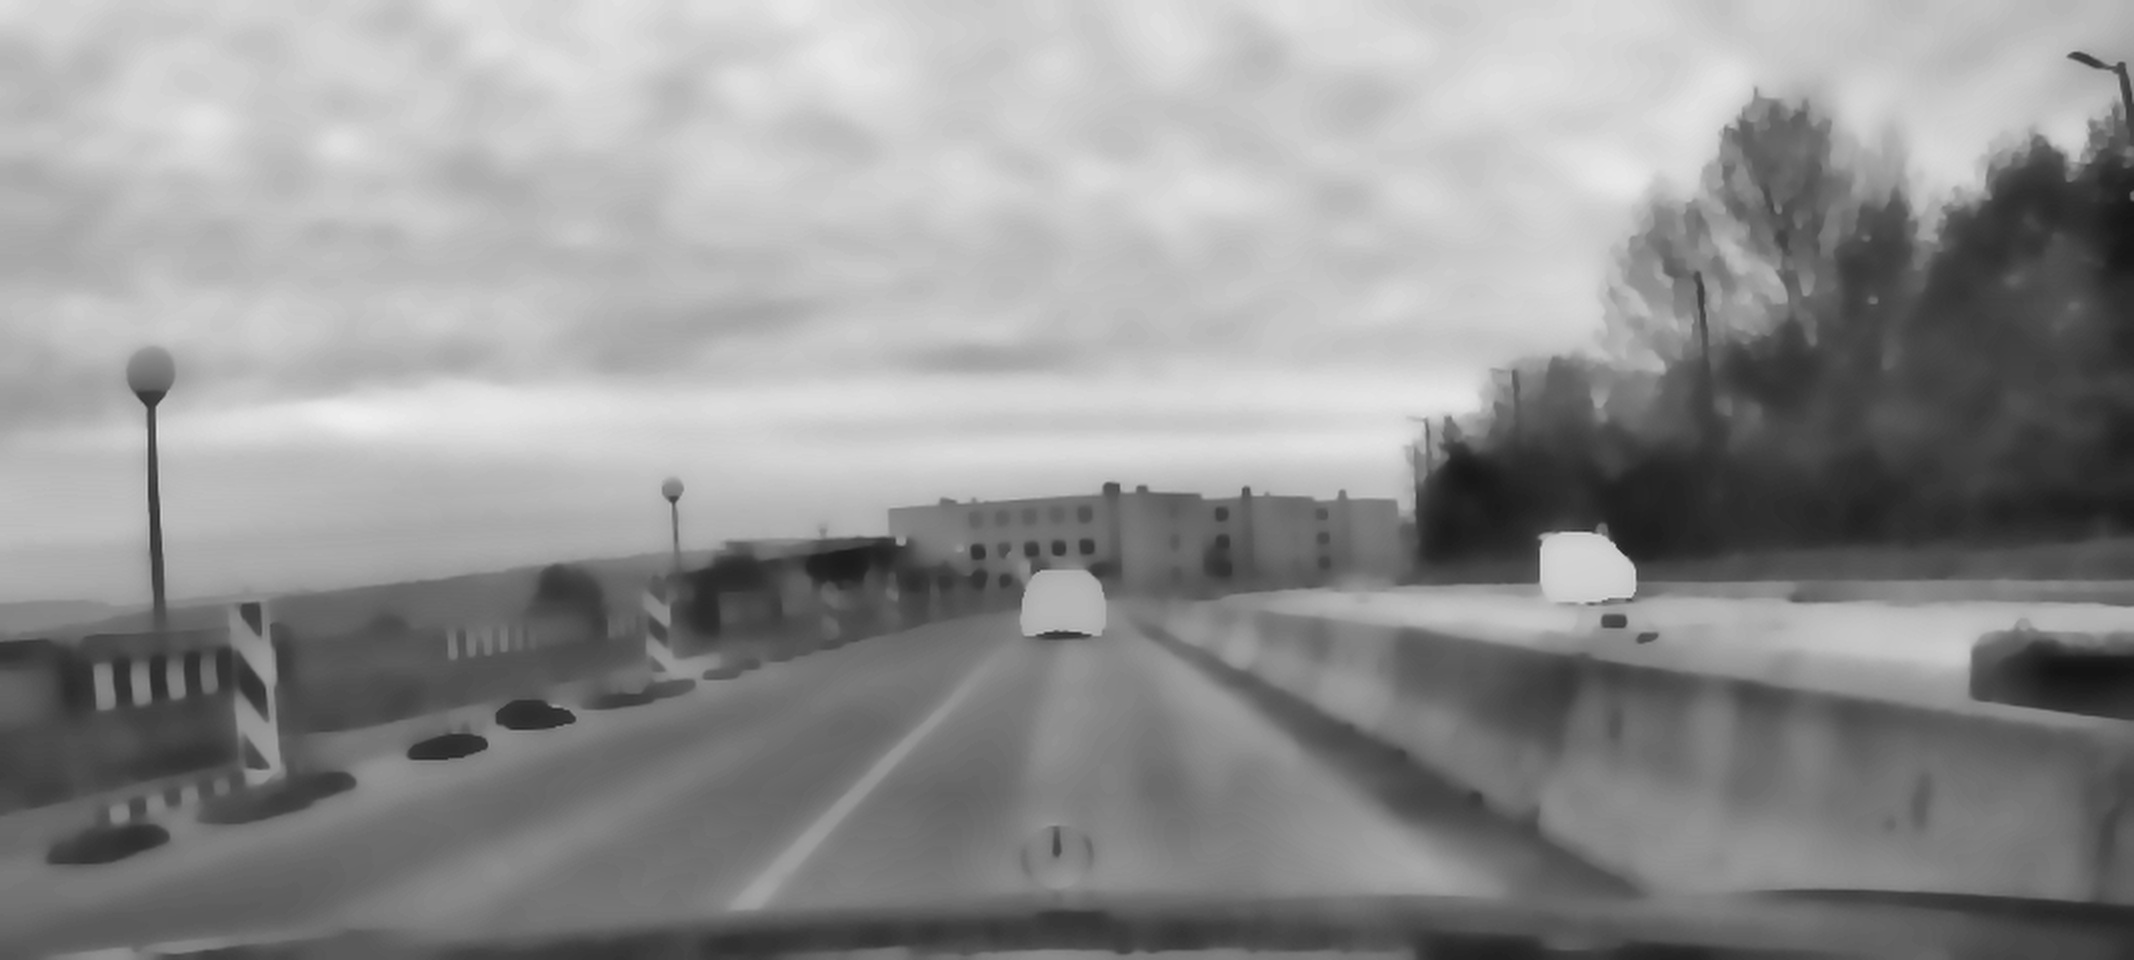
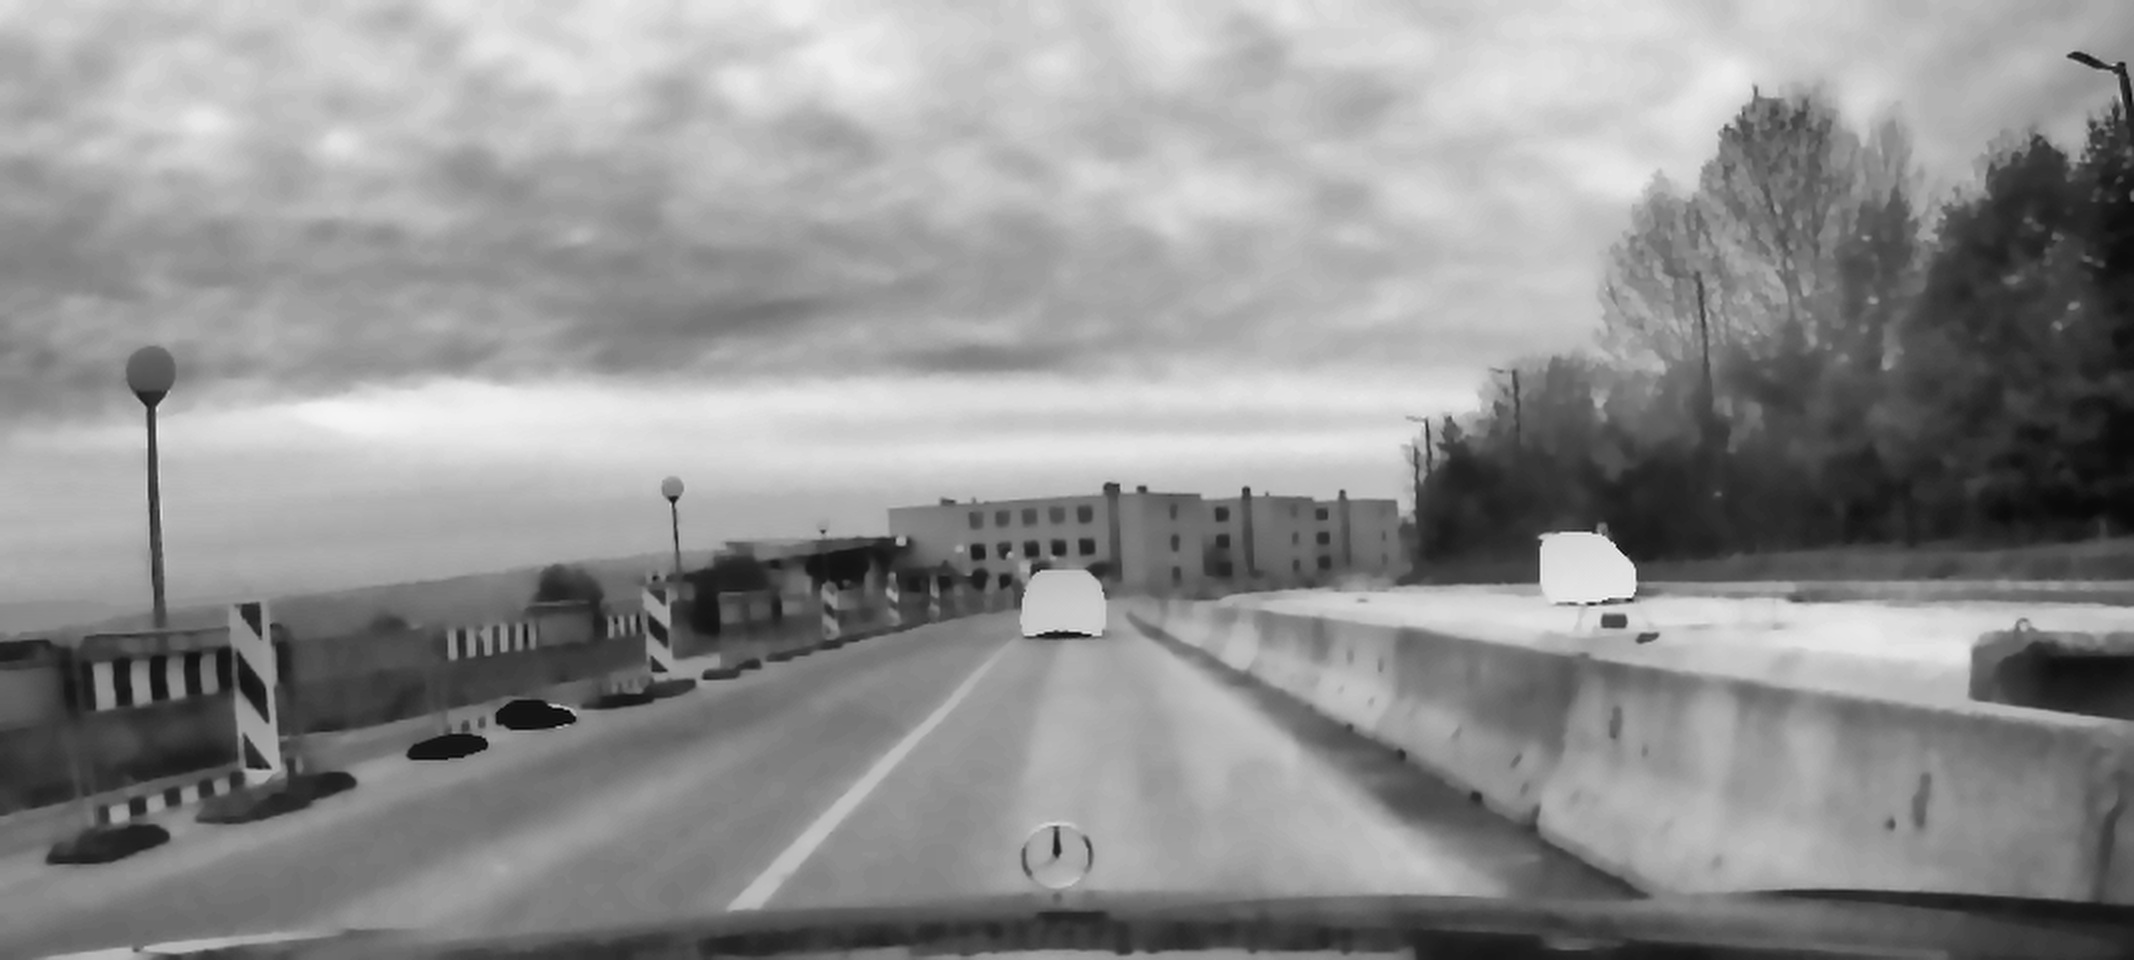
added

diff --git a/main_pipeline.py b/main_pipeline.py
@@ -10,31 +10,45 @@ from skimage.measure import label, regionprops
 root_dir = "radar_project"
 input_folder = os.path.join(root_dir, "radar_dataset")
 enhanced_folder = os.path.join(root_dir, "enhanced_outputs")
-detection_folder = os.path.join(root_dir, "detections")
+detection_folder = os.path.join(root_dir, "detection")
 
-# Create necessary folders
 os.makedirs(input_folder, exist_ok=True)
 os.makedirs(enhanced_folder, exist_ok=True)
 os.makedirs(detection_folder, exist_ok=True)
 
-# === PIPELINE FUNCTIONS ===
+# === STEP 1: Image Enhancement ===
 def enhance_radar_image(image):
-    """Apply TV denoising, CLAHE, and upscaling"""
-    tv_img = denoise_tv_chambolle(image / 255.0, weight=0.1)
+    """TV denoising + CLAHE + upscaling"""
+    tv_img = denoise_tv_chambolle(image / 255.0, weight=0.03)
     tv_img = (tv_img * 255).astype(np.uint8)
-    clahe = cv2.createCLAHE(clipLimit=2.0, tileGridSize=(8, 8))
-    clahe_img = clahe.apply(tv_img)
-    upscaled_img = cv2.resize(clahe_img, (image.shape[1]*2, image.shape[0]*2), interpolation=cv2.INTER_LANCZOS4)
-    return upscaled_img
 
+    clahe = cv2.createCLAHE(clipLimit=3.0, tileGridSize=(4, 4))
+    clahe_img = clahe.apply(tv_img)
+
+    upscaled = cv2.resize(clahe_img, (image.shape[1]*2, image.shape[0]*2), interpolation=cv2.INTER_LANCZOS4)
+    return upscaled
+
+# === STEP 2: Object Detection with Filtering ===
 def detect_objects(enhanced_img):
-    """Detect blobs using Otsu threshold and connected components"""
+    """Detects meaningful blobs only — filters out noise"""
     _, binary = cv2.threshold(enhanced_img, 0, 255, cv2.THRESH_BINARY + cv2.THRESH_OTSU)
     labeled = label(binary)
-    bboxes = [region.bbox for region in regionprops(labeled) if region.area >= 20]
+    bboxes = []
+
+    for region in regionprops(labeled):
+        minr, minc, maxr, maxc = region.bbox
+        area = region.area
+        height = maxr - minr
+        width = maxc - minc
+        aspect_ratio = width / height if height != 0 else 0
+
+        # ✅ Stricter conditions to reduce false positives:
+        if 150 <= area <= 7000 and 0.3 <= aspect_ratio <= 3.5:
+            bboxes.append((minr, minc, maxr, maxc))
+
     return bboxes, binary
 
-# === MAIN PIPELINE ===
+# === STEP 3: Full Pipeline Execution ===
 def run_pipeline():
     image_files = sorted([f for f in os.listdir(input_folder) if f.lower().endswith((".png", ".jpg", ".jpeg"))])
 
@@ -48,36 +62,34 @@ def run_pipeline():
             print(f"Skipped unreadable image: {filename}")
             continue
 
-        # --- Enhancement ---
+        # Step 1: Enhance
         enhanced = enhance_radar_image(orig)
-        enhanced_path = os.path.join(enhanced_folder, f"enh_{filename}")
-        cv2.imwrite(enhanced_path, enhanced)
+        cv2.imwrite(os.path.join(enhanced_folder, f"enh_{filename}"), enhanced)
 
-        # --- SSIM ---
+        # Step 2: SSIM
         resized_orig = cv2.resize(orig, (enhanced.shape[1], enhanced.shape[0]))
         ssim_score = ssim(resized_orig, enhanced)
 
-        # --- Detection ---
+        # Step 3: Detect
         boxes, _ = detect_objects(enhanced)
         detection_counts.append(len(boxes))
         ssim_scores.append(ssim_score)
 
-        # --- Draw and save detections ---
+        # Step 4: Save output
         output = cv2.cvtColor(enhanced, cv2.COLOR_GRAY2BGR)
-        for box in boxes:
-            minr, minc, maxr, maxc = box
+        for minr, minc, maxr, maxc in boxes:
             cv2.rectangle(output, (minc, minr), (maxc, maxr), (0, 0, 255), 2)
         cv2.imwrite(os.path.join(detection_folder, f"detect_{filename}"), output)
 
-    # --- Save results ---
+    # Step 5: Save results
     df = pd.DataFrame({
         "Image Name": image_files,
         "SSIM (Original vs Enhanced)": ssim_scores,
         "Detected Objects": detection_counts
     })
     df.to_csv(os.path.join(root_dir, "results.csv"), index=False)
-    print(df)
+    print("✅ DONE! Cleaned detections + results.csv saved")
 
-# Run it
+# Run script
 if __name__ == "__main__":
     run_pipeline()
